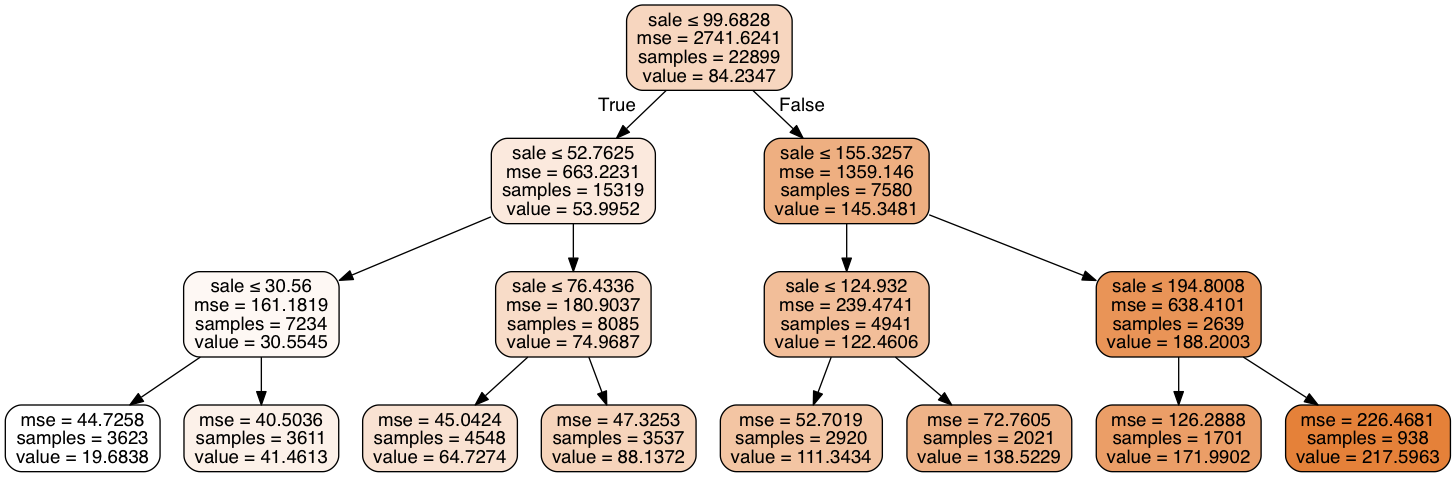
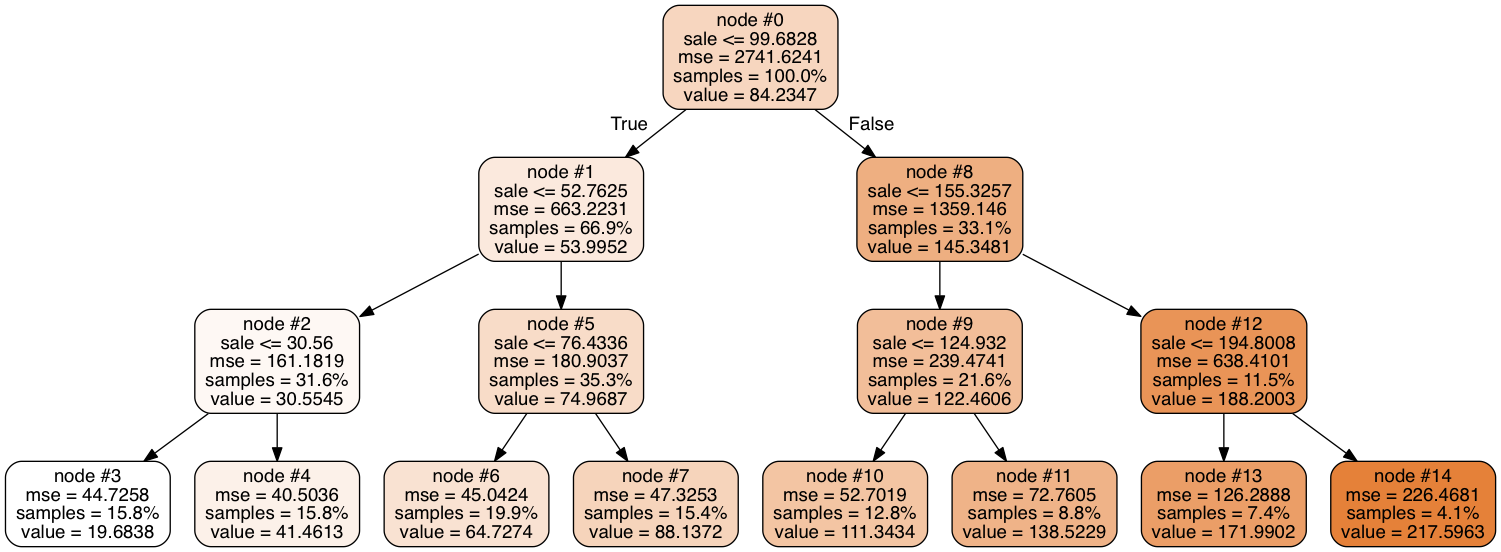
misc

diff --git a/_posts/2015-08-30-liqour.md b/_posts/2015-08-30-liqour.md
@@ -23,9 +23,9 @@ date: "30 October 2016"
 
 ### Introduction
 
-The goal of this project was to build a profitability model based on total spirits sales in Iowa at the store level. Since it is a very large data set, only 10% of the data was retrieved from [the Iowa website](https://data.iowa.gov/Economy/Iowa-Liquor-Sales/m3tr-qhgy). The dataset contains the spirits purchase information of Iowa Class “E” liquor licensees by product and date of purchase. For the variables’ description, please visit [the Iowa website](https://data.iowa.gov/Economy/Iowa-Liquor-Sales/m3tr-qhgy).
+The goal of this project was to build a profitability model based on total spirits sales in Iowa at the store level. Since it is a very large data set, only 10% of the data was retrieved from [the Iowa website](https://data.iowa.gov/Economy/Iowa-Liquor-Sales/m3tr-qhgy). The dataset contains the spirits purchase information of Iowa Class “E” liquor licensees (stores) by product and date of purchase from the state of Iowa. For the variables’ description, please visit [the Iowa website](https://data.iowa.gov/Economy/Iowa-Liquor-Sales/m3tr-qhgy).
 
-The data contain total sale of liquor ordered per transaction bought by each store from the state of Iowa. That is right. The data do not contain total sale of liquor for each transaction made by customers in each store. Thus, while exploring the data, a very important assumption was made that owners in Iowa are knowledgeable business people, and they only stock what they sell. I really hope so, otherwise they would probably go out of business. In addition to the variables I had, three new variables were created: Store (a number of stores per each zip code), Vendor (a number of vendors per each zip code), and Month (a month when liquor was purchased).
+Note the data does not contain total sale of liquor for each transaction made by customers in each store. Instead, it contains total sale of liquor per transaction made by each store while purchasing liquor from the state of Iowa. Thus, while exploring the data, a very important assumption was made that owners in Iowa are knowledgeable business people, and they only stock what they sell.  In addition to the variables I had, three new variables were created: Store (a number of stores per each zip code), Vendor (a number of vendors per each zip code), and Month (a month when liquor was purchased).
 
 
 ### Multiple Regression Model
@@ -59,7 +59,7 @@ Since the variable Month did not predict Sale, the final model excluded the mont
 
 After regrouping the data [MSE (mean squared error)](https://en.wikipedia.org/wiki/Mean_squared_error) of the final regression model substantially decreased (404.40 vs. 835.78).
 
-As seen in the regression table below, all independent variables positively and significantly predicted average sale per transaction. Sale per transaction increased as Retail (retail price per bottle), Sold (a number of bottles sold), Vendor (a number of vendors per zip code), and Volume (bottle volume) increased. All categories of liquor (expect schnapps) significantly predicted sale per transaction compared to brandy (the baseline category). 
+As seen in the regression table below, all independent variables positively and significantly predicted average sale per transaction. Sale per transaction increased as Retail (retail price per bottle), Sold (a number of bottles sold), Vendor (a number of vendors per zip code), and Volume (bottle volume) increased. All categories of liquor (except schnapps) significantly predicted sale per transaction compared to brandy (the baseline category). 
 
 
 ![Regression Table]({{ site.url }}{{ site.baseurl }}/images/table2_1.png)
@@ -99,7 +99,7 @@ I chose the Decision Tree regressor and Ada Boost regressor as my final non-para
 ![Decision Tree]({{ site.url }}{{ site.baseurl }}/images/pic2_8.png){: .align-center} 
 
 
-As seen above, the decision tree regressor builds a regression model in the form of a tree structure. Here, I am only presenting a tree with maximum depth of 3, for a demonstration.  A decision node Sales has two original branches, sales that equals to or more than 52.76 and sales that equal to or more than 155.33, each representing values for the attribute the attribute tested. A measure of purity is calculated for each branch, which represents the amount of information needed to classify instance as True or False. The branches split into smaller successively purer subsets further and further until they reach the best possible purity. 
+As seen above, the decision tree regressor builds a regression model in the form of a tree structure. Here, I am only presenting a tree with maximum depth of 3, for a demonstration.  A decision node #0 has two original branches, sales that equals to or more than 52.76 and sales that equal to or more than 155.33, each representing values for the attribute the attribute tested. A measure of purity is calculated for each branch (or node), which represents the amount of information needed to classify instance as True or False. The branches split into smaller successively purer subsets further and further until they reach the best possible purity. 
 
 However, as seen below decision tree model perfectly fits the test data over 5 folds, and I am very suspicious that it might be a sign of overfitting.
  
@@ -107,7 +107,7 @@ However, as seen below decision tree model perfectly fits the test data over 5 f
 ![Decision Tree Regressor]({{ site.url }}{{ site.baseurl }}/images/pic2_7.png){: .align-center} 
 
 
-The Ada Boost algorithm is more robust to overfitting and yields more accurate results, but much harder to interpret. Ada Boost (with decision trees as the weak learners) yields a slightly higher MSE score, indicating a slightly lower accuracy. Even so, the algorithm with the lower accuracy might be an equally good choice in this case in order to avoid the model's overfitting. As shown below, testing data over 5 folds produced a zigzag-like pattern, indicating a slightly lower model fit. 
+The Ada Boost algorithm is more robust to overfitting and yields more accurate results, but much harder to interpret. Indeed, Ada Boost yielded a slightly higher MSE score, indicating a slightly lower accuracy. Even so, the algorithm with the lower accuracy might be an equally good choice in this case in order to avoid the model's overfitting. As shown below, testing data over 5 folds produced a zigzag-like pattern, indicating a slightly lower model fit. 
 
 
 ![Ada Boost Regressor]({{ site.url }}{{ site.baseurl }}/images/pic2_9.png){: .align-center} 
@@ -118,7 +118,7 @@ Since the both non-parametric models have their advantages and disadvantages and
 
 ### Conclusion
 
-In this project, I built a profitability model for Iowa liquor stores. First, linear regression model was constructed using a step-wise approach. However, the model did not meet all linear regression assumptions, and I had to use non-parametric algorithms. I ran six algorithms and all of them (except Ada Boost) produced similar accuracy scores as measured by MSE. Because they were close to prefect, possibly indicating an overfitting, I selected Ada Boost along with Decision Tree as my final algorithms. Decision Tree is easy to interpret, performs really well with a large set of data, and has a high training and prediction speed. Ada Boost, on the other hand, is very hard to interpret but it is robust to overfitting. 
+In this project, I built a profitability model for Iowa liquor stores. First, a linear regression model was constructed using a step-wise approach. However, the model did not meet all the linear regression assumptions, and I had to use non-parametric algorithms. I ran six algorithms and all of them (except Ada Boost) produced similar accuracy scores as measured by MSE. Because the scores were close to prefect, possibly indicating an overfitting, I selected Ada Boost (along with Decision Tree) as my final algorithms. Ada Boost is very hard to interpret but more robust to overfitting. Decision Tree, on the other hand,  is easy to interpret, performs really well with a large set of data, has a high training and prediction speed, but is prone to overfitting.
 
 
 

diff --git a/_posts/2015-01-30-the-hot-100-how-hot-it-is.md b/_posts/2015-01-30-the-hot-100-how-hot-it-is.md
@@ -25,7 +25,7 @@ date: "1 October 2016"
 
 The Billboard charts are the United States music industry standard popularity ranking issued weekly by Billboard magazine.  The Billboard charts rank songs relative to each other. The ranking is based on radio plays and sales (both physical and digital) data monitored by Nielsen Music, which electronically monitors radio stations in more than 140 markets across the United States. 
 
-The goal of this project was to perform an explanatory data analysis using the billboard data of 2000. The billboard data are interesting in terms of its unique structure and introduces some minor challenges for data cleaning. To analyze the 2000 chart, the data structure was reshaped using pd.melt() function. Specifically, multiple columns indicating a number of weeks in chart and peak position were transformed into only 2 columns. For the details, please see the [python code](https://github.com/dmarinav/My_Projects/blob/master/Billboard100.ipynb).
+The goal of this project was to perform an explanatory data analysis using the billboard data of 2000. The billboard data are interesting in terms of its unique structure and introduces some minor challenges for data cleaning. To analyze the 2000 chart, the data structure was reshaped using pd.melt() function. Specifically, multiple columns indicating a number of weeks in chart and peak position were transformed into only 2 columns. For the details, please see the [python code](https://github.com/dmarinav/My_Projects/blob/master/BILLBOARD100.ipynb).
 
 
 ### Explanatory Data Analysis 

diff --git a/_posts/2016-07-30-airports.md b/_posts/2016-07-30-airports.md
@@ -23,7 +23,7 @@ date: "15 November 2016"
 
 ### Introduction
 
-The main goal of this project was to identify meaningful and useful (that share common characteristics) clusters of flight delays for FAA regulated airports in the US. The data included name of airport, state, city, operational year (from 2004 to 2010), departures, arrivals, cancelations, numbers of delays and diversions, average delay times for a number of operational processes (such as taxi-out, taxi-in, airborne time, etc.). Please see a detailed description of the features [here](http://aspmhelp.faa.gov/index.php/APM:_Analysis:_Definitions_of_Variables). Because some of the features were measured in minutes and some were measured in percentages, the data were normalized (scaled) before the analyses was conducted.
+The main goal of this project was to identify meaningful and useful (that share common characteristics) clusters of flight delays for FAA regulated airports in the US. The data included name of airport, state, city, operational year (from 2004 to 2010), departures, arrivals, cancelations, numbers of delays and diversions, average delay times for a number of operational processes (such as taxi-out, taxi-in, airborne time, etc.). Please see a detailed description of the features [here](http://aspmhelp.faa.gov/index.php/APM:_Analysis:_Definitions_of_Variables). Because some of the features were measured in minutes and some were measured in percentages, the data were normalized (scaled) before any analyses were conducted.
 
 
 ### Principal Components Analysis
